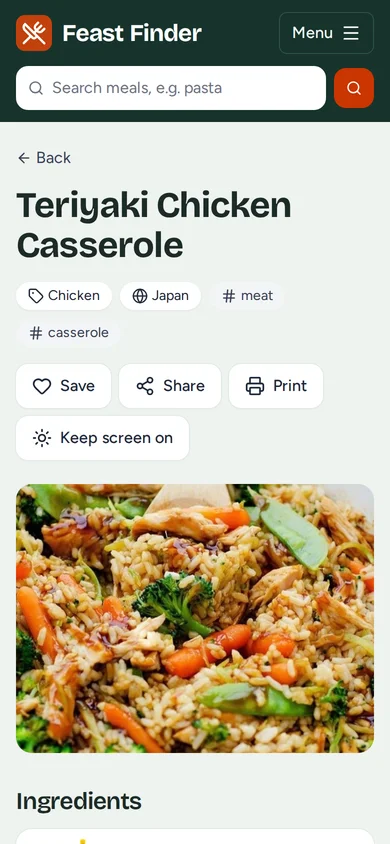
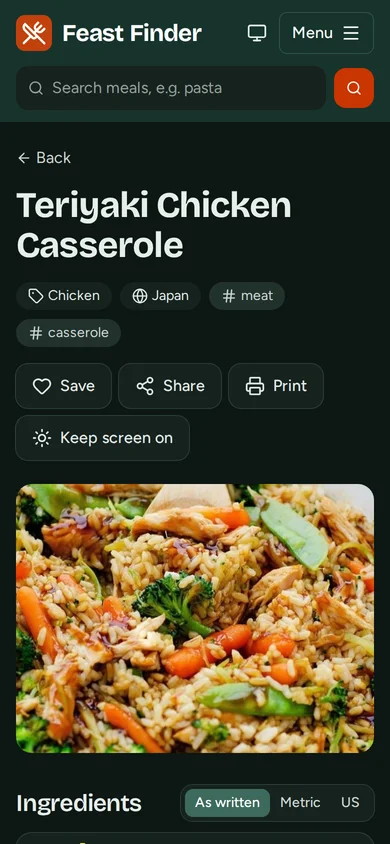
Feature docs: README and About page for cooking mode, timers, read-aloud jumps, units, shopping list, dark mode and the Lighthouse budget

diff --git a/app/pages/about.vue b/app/pages/about.vue
@@ -117,7 +117,20 @@
 </template>
 
 <script setup lang="ts">
-import { Check, Code, ExternalLink, Heart, Search, Share2, Smartphone, UtensilsCrossed, Volume2 } from '@lucide/vue';
+import {
+  Check,
+  ChefHat,
+  Code,
+  ExternalLink,
+  Heart,
+  Scale,
+  Search,
+  ShoppingBasket,
+  Smartphone,
+  Timer,
+  UtensilsCrossed,
+  Volume2,
+} from '@lucide/vue';
 
 useHead({ title: 'About' });
 
@@ -125,7 +138,7 @@ const features = [
   {
     icon: Search,
     title: 'Search and browse',
-    text: 'Find meals by name, or browse by ingredient, category and cuisine.',
+    text: 'Find meals by name, browse by ingredient, category and cuisine, or cook with what is in your fridge.',
   },
   {
     icon: UtensilsCrossed,
@@ -133,31 +146,46 @@ const features = [
     text: 'Ingredients with measures, numbered steps to tick off while cooking, and the video when there is one.',
   },
   {
+    icon: ChefHat,
+    title: 'Cooking mode',
+    text: 'One step at a time in large text, full screen, with the screen kept on. Swipe or use the arrow keys.',
+  },
+  {
+    icon: Timer,
+    title: 'Timers',
+    text: 'Cooking times in the steps become timers that ring, vibrate and notify you, even on another page.',
+  },
+  {
     icon: Volume2,
     title: 'Read aloud',
-    text: 'Hands full? Let the browser read the instructions and follow the highlighted step.',
+    text: 'Hands full? The browser reads the steps, and you can jump to the next or previous one.',
+  },
+  {
+    icon: ShoppingBasket,
+    title: 'Shopping list',
+    text: 'Add what you still need from any recipe. Ingredients from several meals are merged.',
+  },
+  {
+    icon: Scale,
+    title: 'Metric or US units',
+    text: 'Show measures as written, in grams and millilitres, or in cups and ounces.',
   },
   {
     icon: Heart,
-    title: 'Favourites',
-    text: 'Save meals with one tap. They stay in your browser, no account needed.',
-  },
-  {
-    icon: Share2,
-    title: 'Share and print',
-    text: 'Send a recipe with your phone’s share sheet, copy the link, or print a clean copy.',
+    title: 'Favourites and sharing',
+    text: 'Save meals with one tap, share a recipe from your phone or print a clean copy.',
   },
   {
     icon: Smartphone,
     title: 'Works everywhere',
-    text: 'Designed for phones and desktops, usable with a keyboard and screen readers.',
+    text: 'Phones and desktops, light and dark theme, offline for pages you have opened, keyboard and screen readers.',
   },
 ];
 
 const howItWorks = [
   'A static single-page app built with Nuxt and hosted on GitHub Pages.',
   'Recipe data is loaded in your browser from TheMealDB and cached for 30 minutes, so browsing back and forth is instant.',
-  'No accounts and no tracking. Favourites are stored only in this browser.',
+  'No accounts and no tracking. Favourites, the shopping list and your settings are stored only in this browser.',
   'Every change is linted, type-checked, tested in a real browser and deployed automatically by GitHub Actions.',
 ];
 

diff --git a/README.md b/README.md
@@ -19,15 +19,21 @@ Feast Finder is a web application for finding recipes by meal name, ingredient, 
 - Search meals by name or browse them by first letter, category, ingredient or cuisine (63 countries with flags), or get a random meal
 - What's in my fridge: pick several ingredients and find meals that use all of them, or all but one
 - Meal pages with ingredient images, numbered steps and the embedded cooking video
-- Cooking checklist: tick off ingredients and steps, keep the screen on (Screen Wake Lock API) and have the instructions read aloud (Web Speech API) with the current step highlighted
+- Cooking mode: one step at a time in large text, fullscreen (Fullscreen API), with the screen kept on (Screen Wake Lock API), arrow keys and swipes
+- Timers from the cooking times in the steps, with sound (Web Audio API), vibration and a notification (Notifications API) when done
+- Read aloud (Web Speech API) with the current step highlighted, jumps to the next or previous step, or start from any step
+- Cooking checklist for ingredients and steps, and a shopping list that merges ingredients from several meals, to copy or share
+- Measures as written, in metric or in US units
 - Favourites saved in the browser, sharing via the Web Share API or the clipboard, print-friendly recipes
-- Works offline for pages and recipes you have opened before, and can be installed as an app
+- Light and dark theme (following the system or chosen), works offline for pages and recipes you have opened before, installable as an app
 - Filters, letters and pages kept in the URL, loading skeletons, error states with retry, a 404 page
-- Keyboard and screen reader friendly (Lighthouse accessibility 100), works on phones
+- Keyboard and screen reader friendly (Lighthouse accessibility 100, checked in CI), works on phones
 
-| Meal page                             | On a phone                                             |
+| Meal page                             | On a phone, dark theme                                 |
 | ------------------------------------- | ------------------------------------------------------ |
 | ![Meal page](./screenshots/meal.webp) | ![Meal page on a phone](./screenshots/meal-phone.webp) |
+
+![Cooking mode with a running timer](./screenshots/cooking-mode.webp)
 
 ![What's in my fridge](./screenshots/fridge.webp)
 
@@ -62,6 +68,7 @@ npm run dev
 | `npm run typecheck`   | Type-check the project                                               |
 | `npm test`            | Run the unit tests                                                   |
 | `npm run test:e2e`    | Run the end-to-end tests against the generated site                  |
+| `npm run lighthouse`  | Run Lighthouse on the generated site and check the score budget      |
 | `npm run format`      | Format the code with Prettier (`format:check` only checks)           |
 | `npm run generate`    | Build the meal index, the sitemap and the static site into `.output` |
 | `npm run data:update` | Rebuild the meal index and the sitemap                               |
@@ -69,7 +76,8 @@ npm run dev
 ## Testing
 
 - **Unit tests** (`test/unit`, Vitest): helpers, the API client with mocked responses, the meal index search and the SEO data.
-- **End-to-end tests** (`test/e2e`, Playwright): run on the generated site, served the way GitHub Pages serves it, in a desktop and a phone browser. TheMealDB is mocked, so the tests are fast and stable. They cover search, meal pages, favourites, the fridge, paging, error and 404 states, and run axe accessibility checks, also with the operating system in dark mode.
+- **End-to-end tests** (`test/e2e`, Playwright): run on the generated site, served the way GitHub Pages serves it, in a desktop and a phone browser. TheMealDB is mocked, so the tests are fast and stable. They cover search, meal pages, favourites, the fridge, paging, timers (with a fake clock), read aloud (with a fake speech engine), cooking mode, units, the shopping list, error and 404 states, and run axe accessibility checks in the light and dark theme.
+- **Lighthouse** (`lighthouserc.json`, Lighthouse CI): desktop runs on five pages of the generated site. CI fails below 100 for accessibility and SEO, 95 for best practices and 70 for performance (the home page waits for random meals and photos from TheMealDB, so its score varies); the reports are kept as a workflow artifact.
 
 ```bash
 npm run generate
@@ -79,7 +87,7 @@ npm run test:e2e
 
 ## Deployment
 
-Every push to `main` and a weekly schedule run [the workflow](.github/workflows/nuxtjs.yml): format check, lint, type check, unit tests, `nuxt generate` with the `github_pages` preset, end-to-end tests, then deployment to GitHub Pages. The weekly run refreshes the meal index with new recipes.
+Every push to `main` and a weekly schedule run [the workflow](.github/workflows/nuxtjs.yml): format check, lint, type check, unit tests, `nuxt generate` with the `github_pages` preset, end-to-end tests, the Lighthouse budget, then deployment to GitHub Pages. The weekly run refreshes the meal index with new recipes.
 
 ## Credits
 
